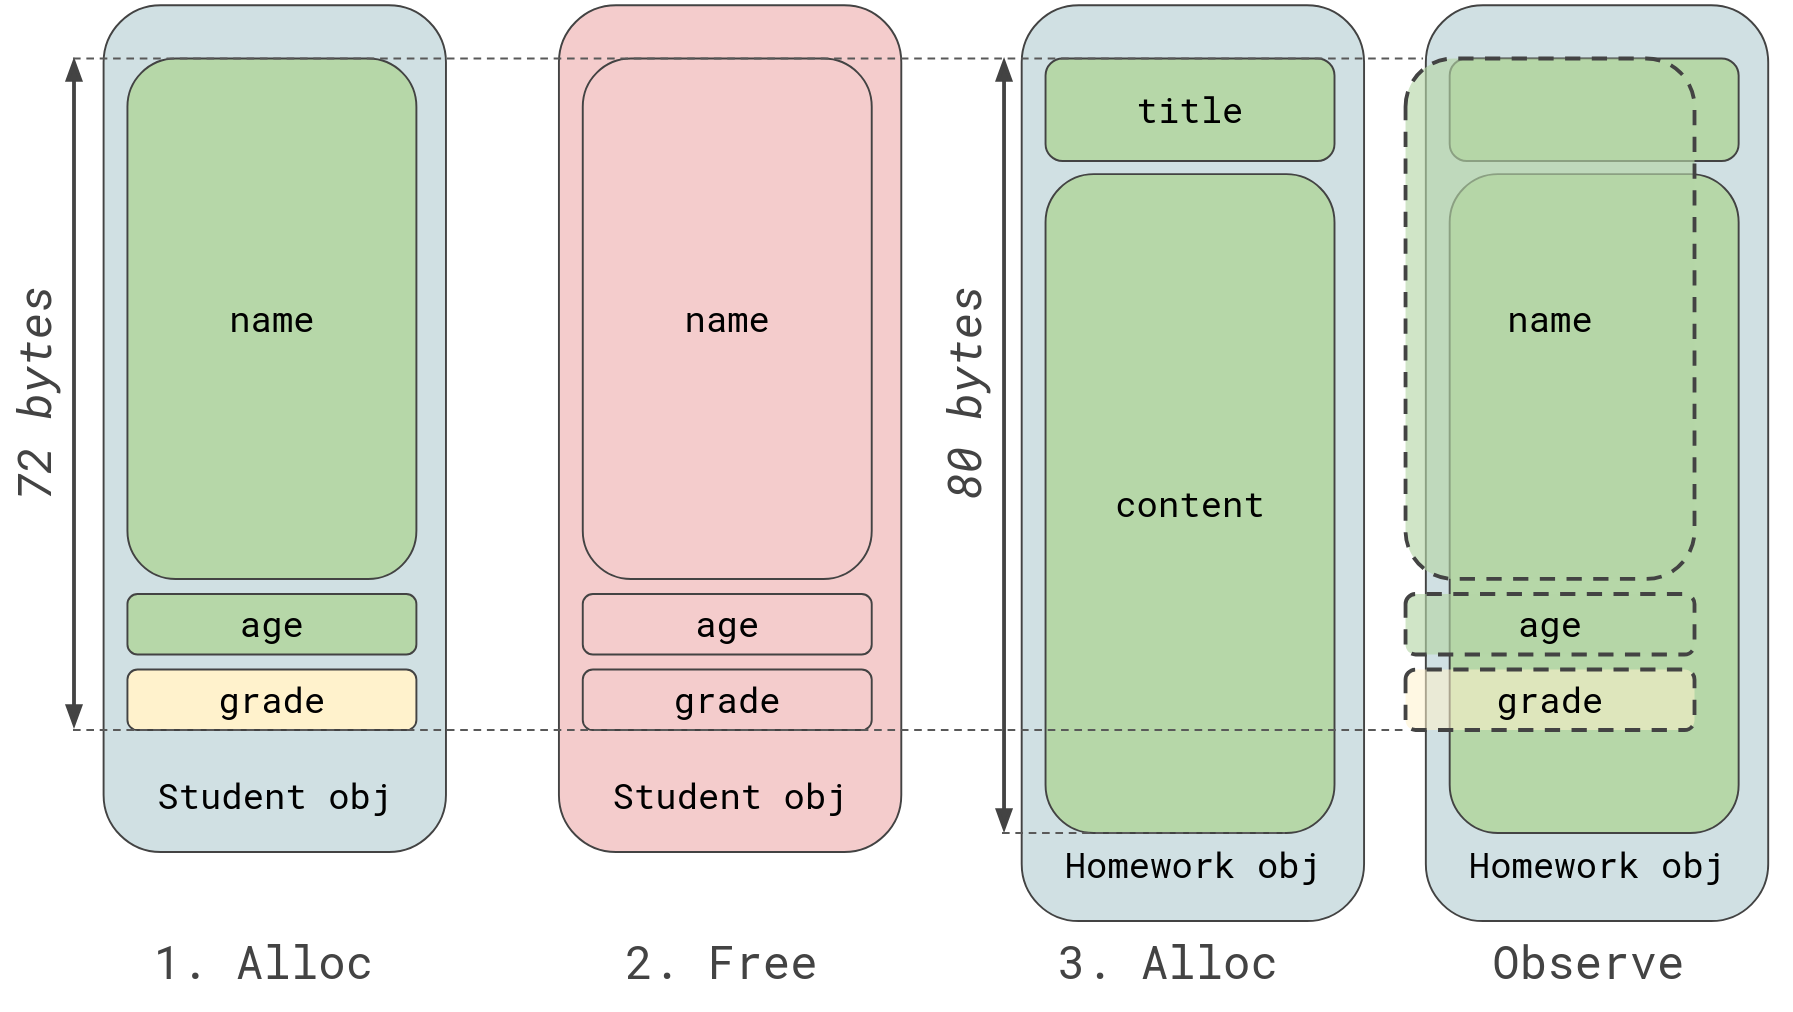
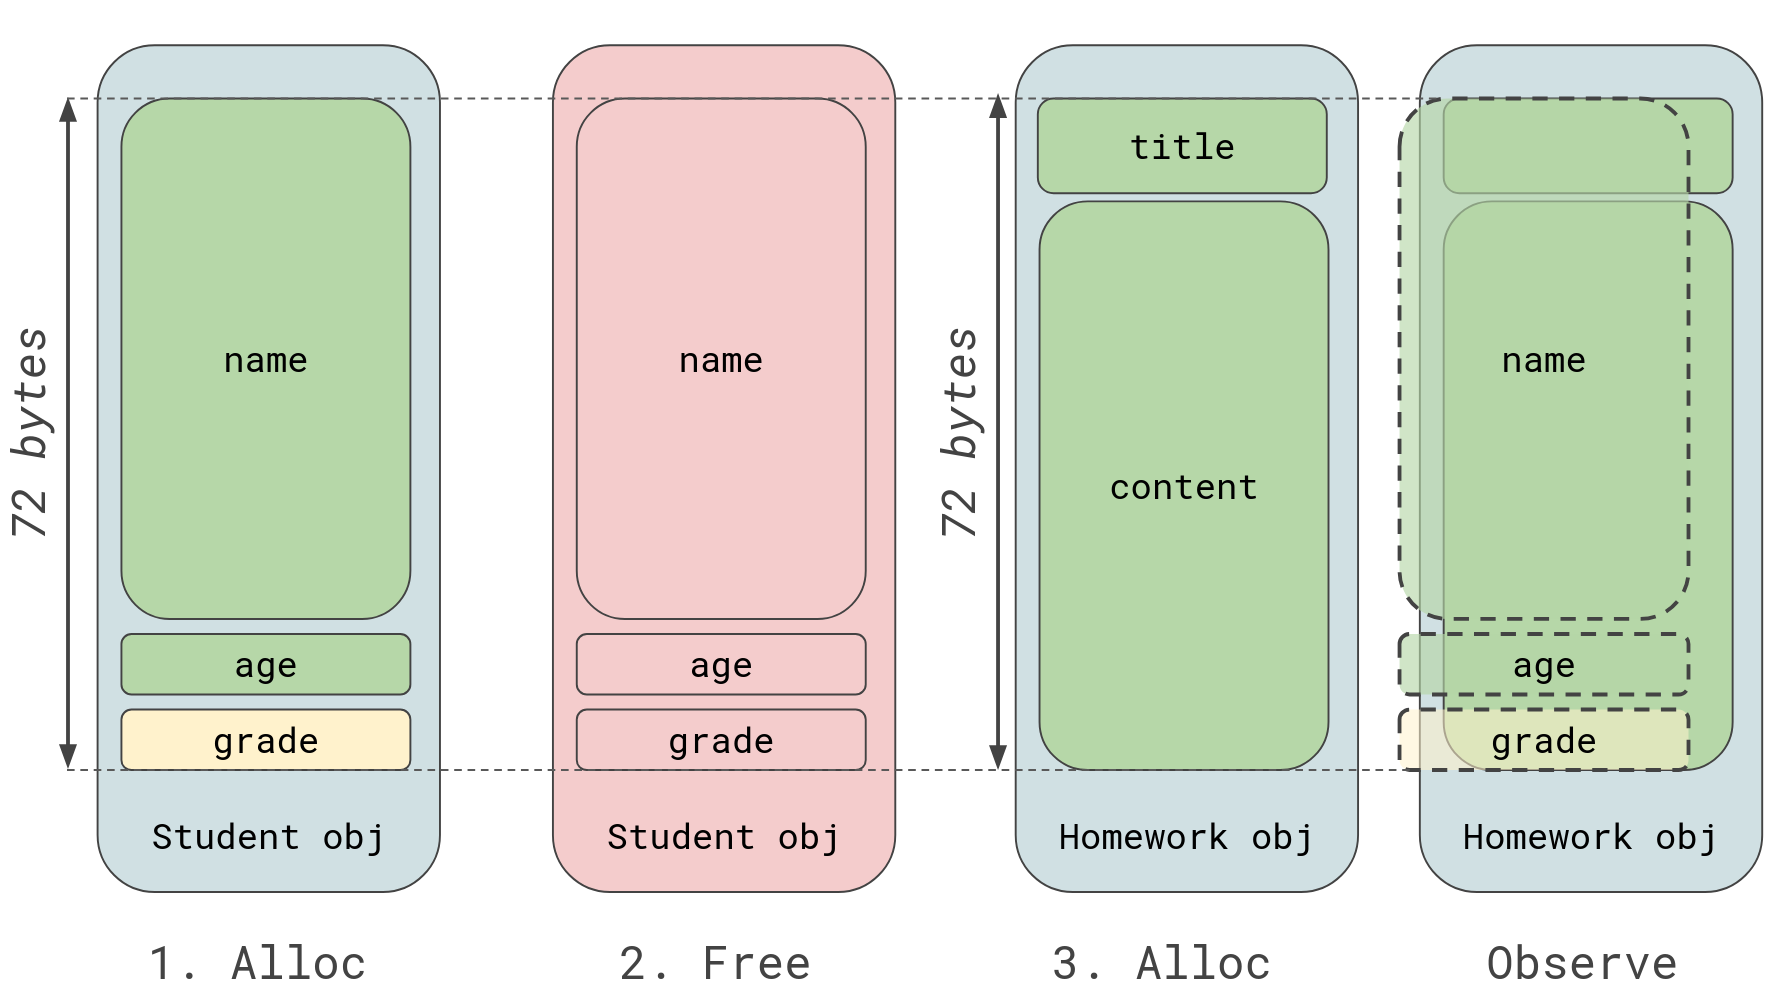
Fix UAF discrepencies

diff --git a/lab6/README.md b/lab6/README.md
@@ -40,17 +40,18 @@ struct Student {
 
 struct Homework {
 	char title[16];
-	char content[64];
+	char content[56];
 };
 ```
 
-Imagine objects of both are allocated on the heap. If a `Student` object is allocated on the heap, it will take `64 + 4 + 4 = 72` bytes of memory. The `Homework` object takes `16 + 64 = 80` bytes of memory.
+Imagine objects of both are allocated on the heap. If a `Student` object is allocated on the heap, it will take `64 + 4 + 4 = 72` bytes of memory. The `Homework` object takes `16 + 56 = 72` bytes of memory.
 We can imagine that a student can input their `name` and their `age`, but not their `grade`, that should be decided by the teachers.
 Additionally, a student can turn in homework, where they can input both the `title` and the `content`.
 
 If a `Student` object is allocated on the heap and then freed, the next object that gets allocated on the heap (depending on implementations) will take its spot.
+Usually, to reuse the chunk, the object has to be of the same size or less than the chunk to be reused, so it can fit in.
 So if a student turns in homework after the `Student` object got freed, the `Homework` object will take its chunk.
-Because the `Homework` object has more user-controlled bytes (80 instead of 68), if this chunk is interpreted as a `Student` instead of a `Homework` object, then the `grade` field can be modified.
+Because the `Homework` object has more user-controlled bytes (72 instead of 68), if this chunk is interpreted as a `Student` instead of a `Homework` object, then the `grade` field can be modified.
 
 ![User-After-Free](../img/use_after_free.png)
 
